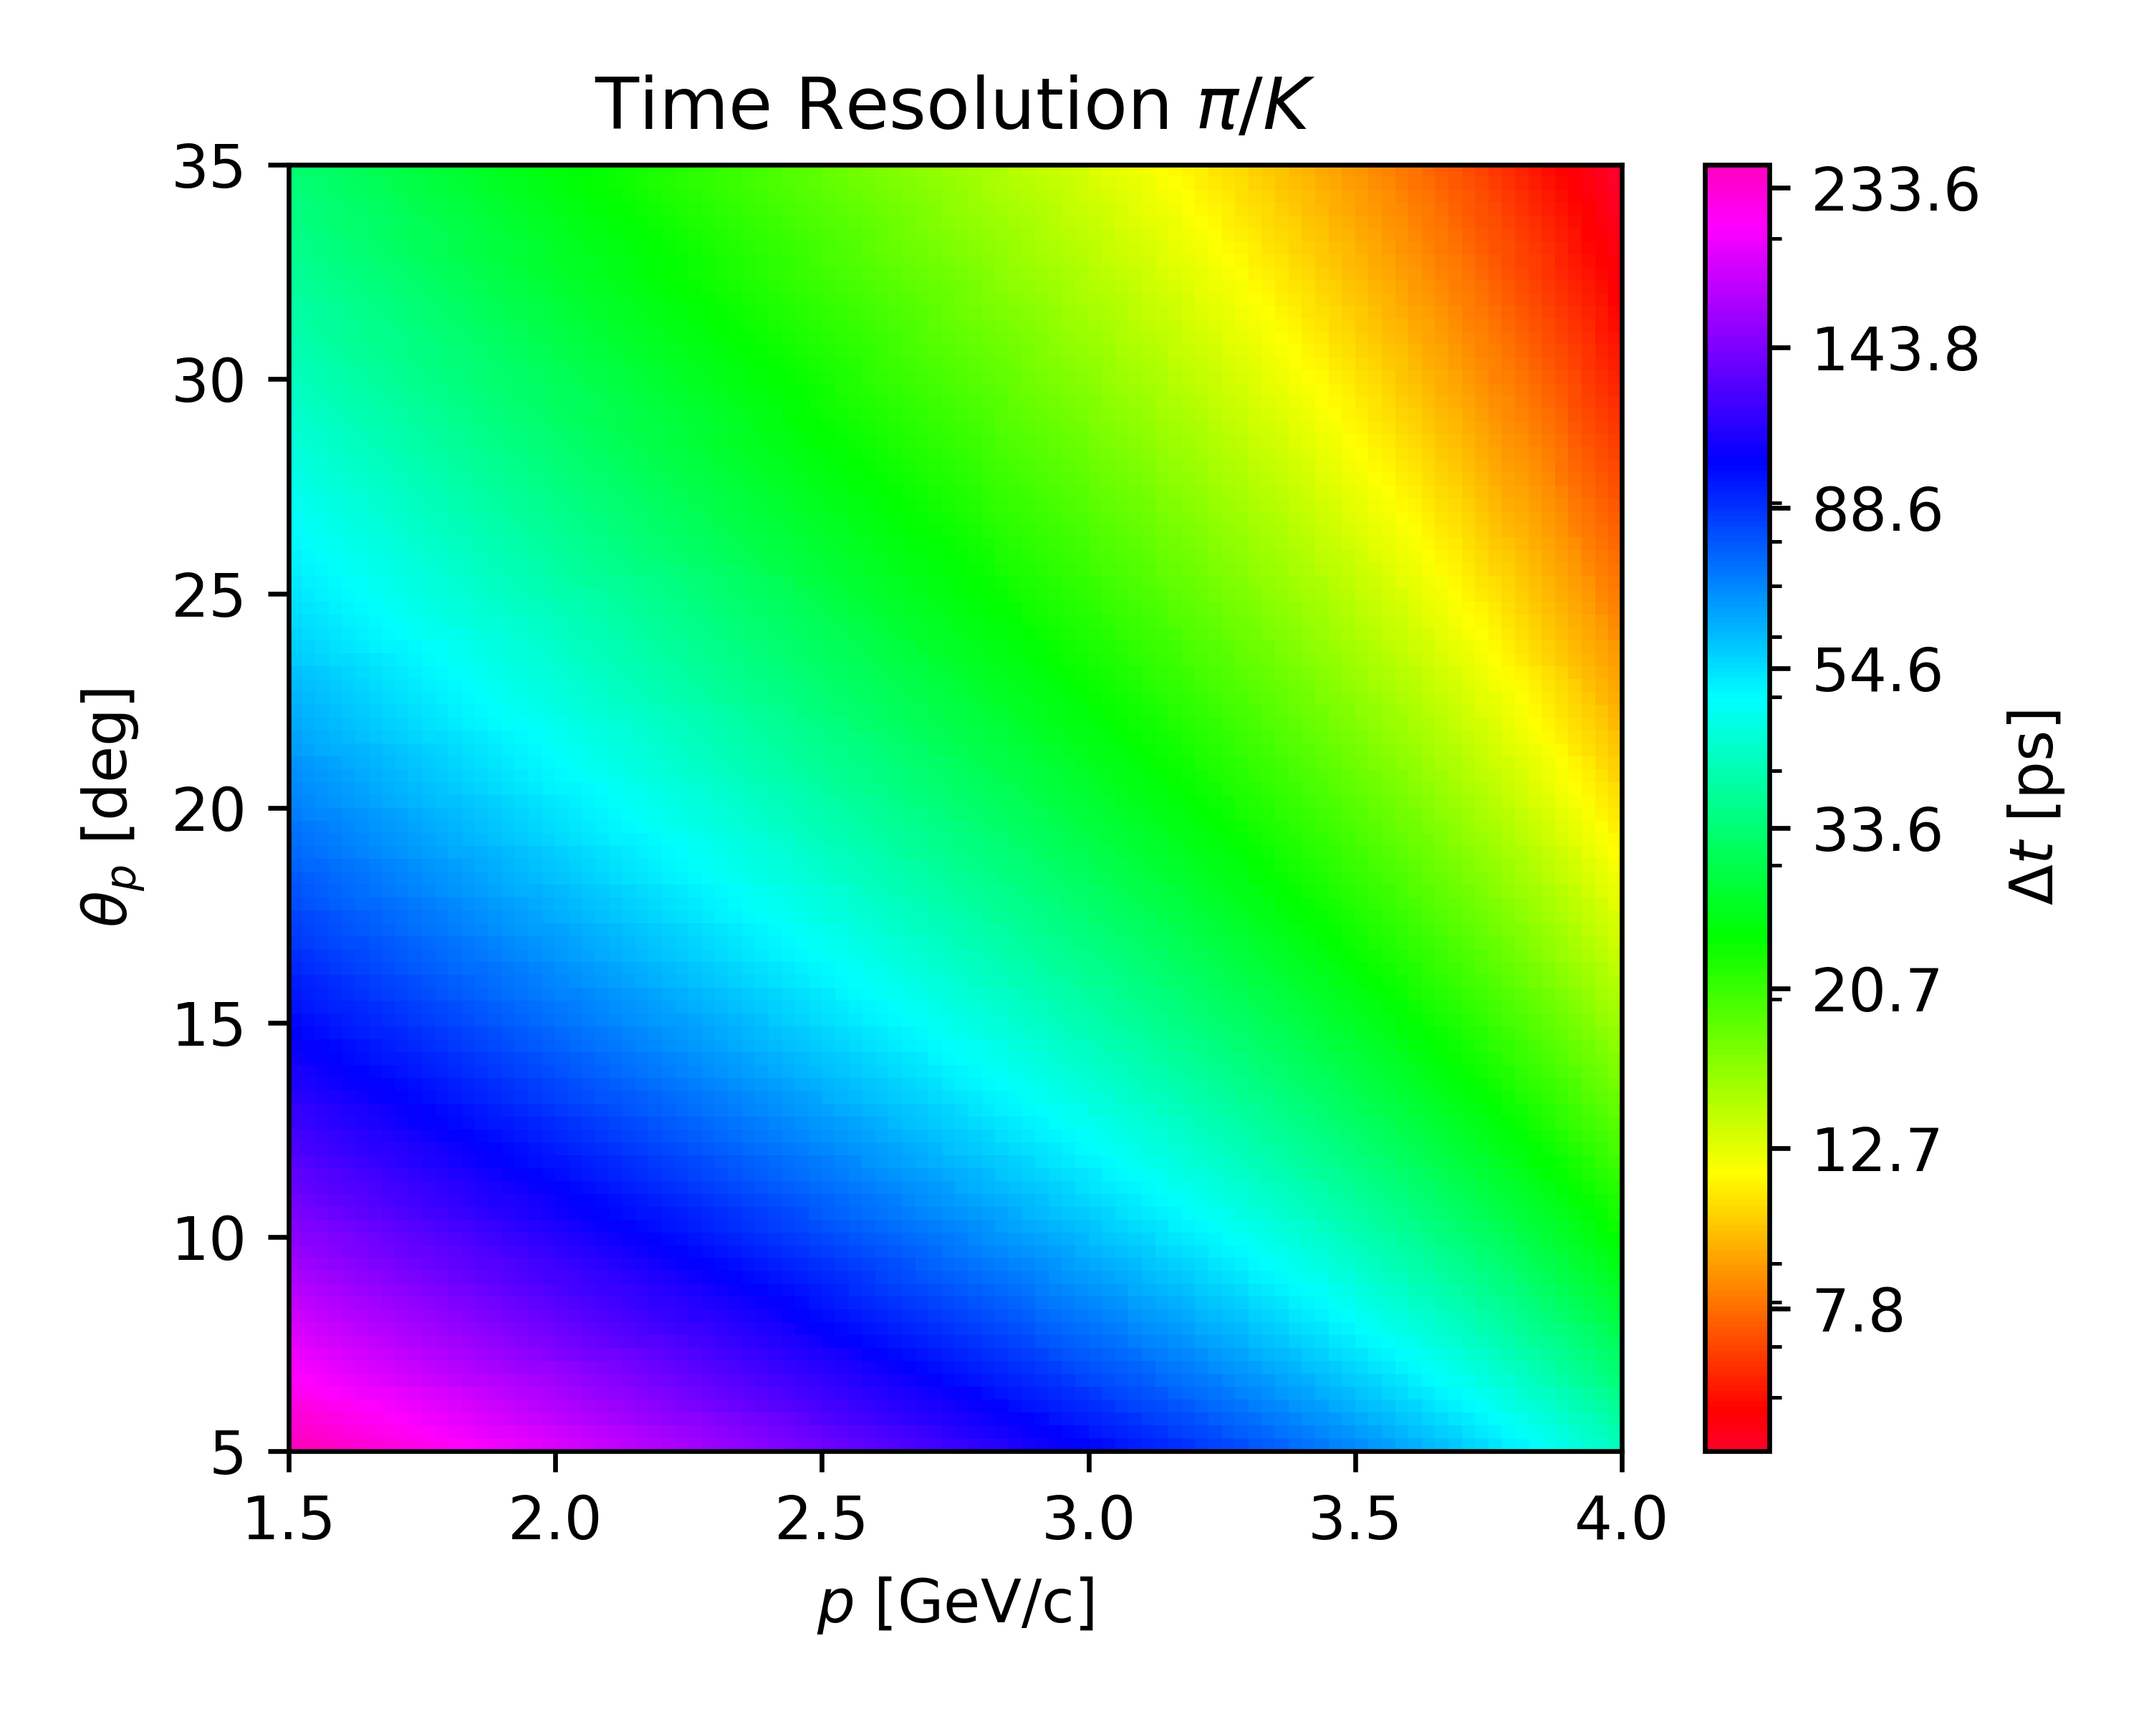
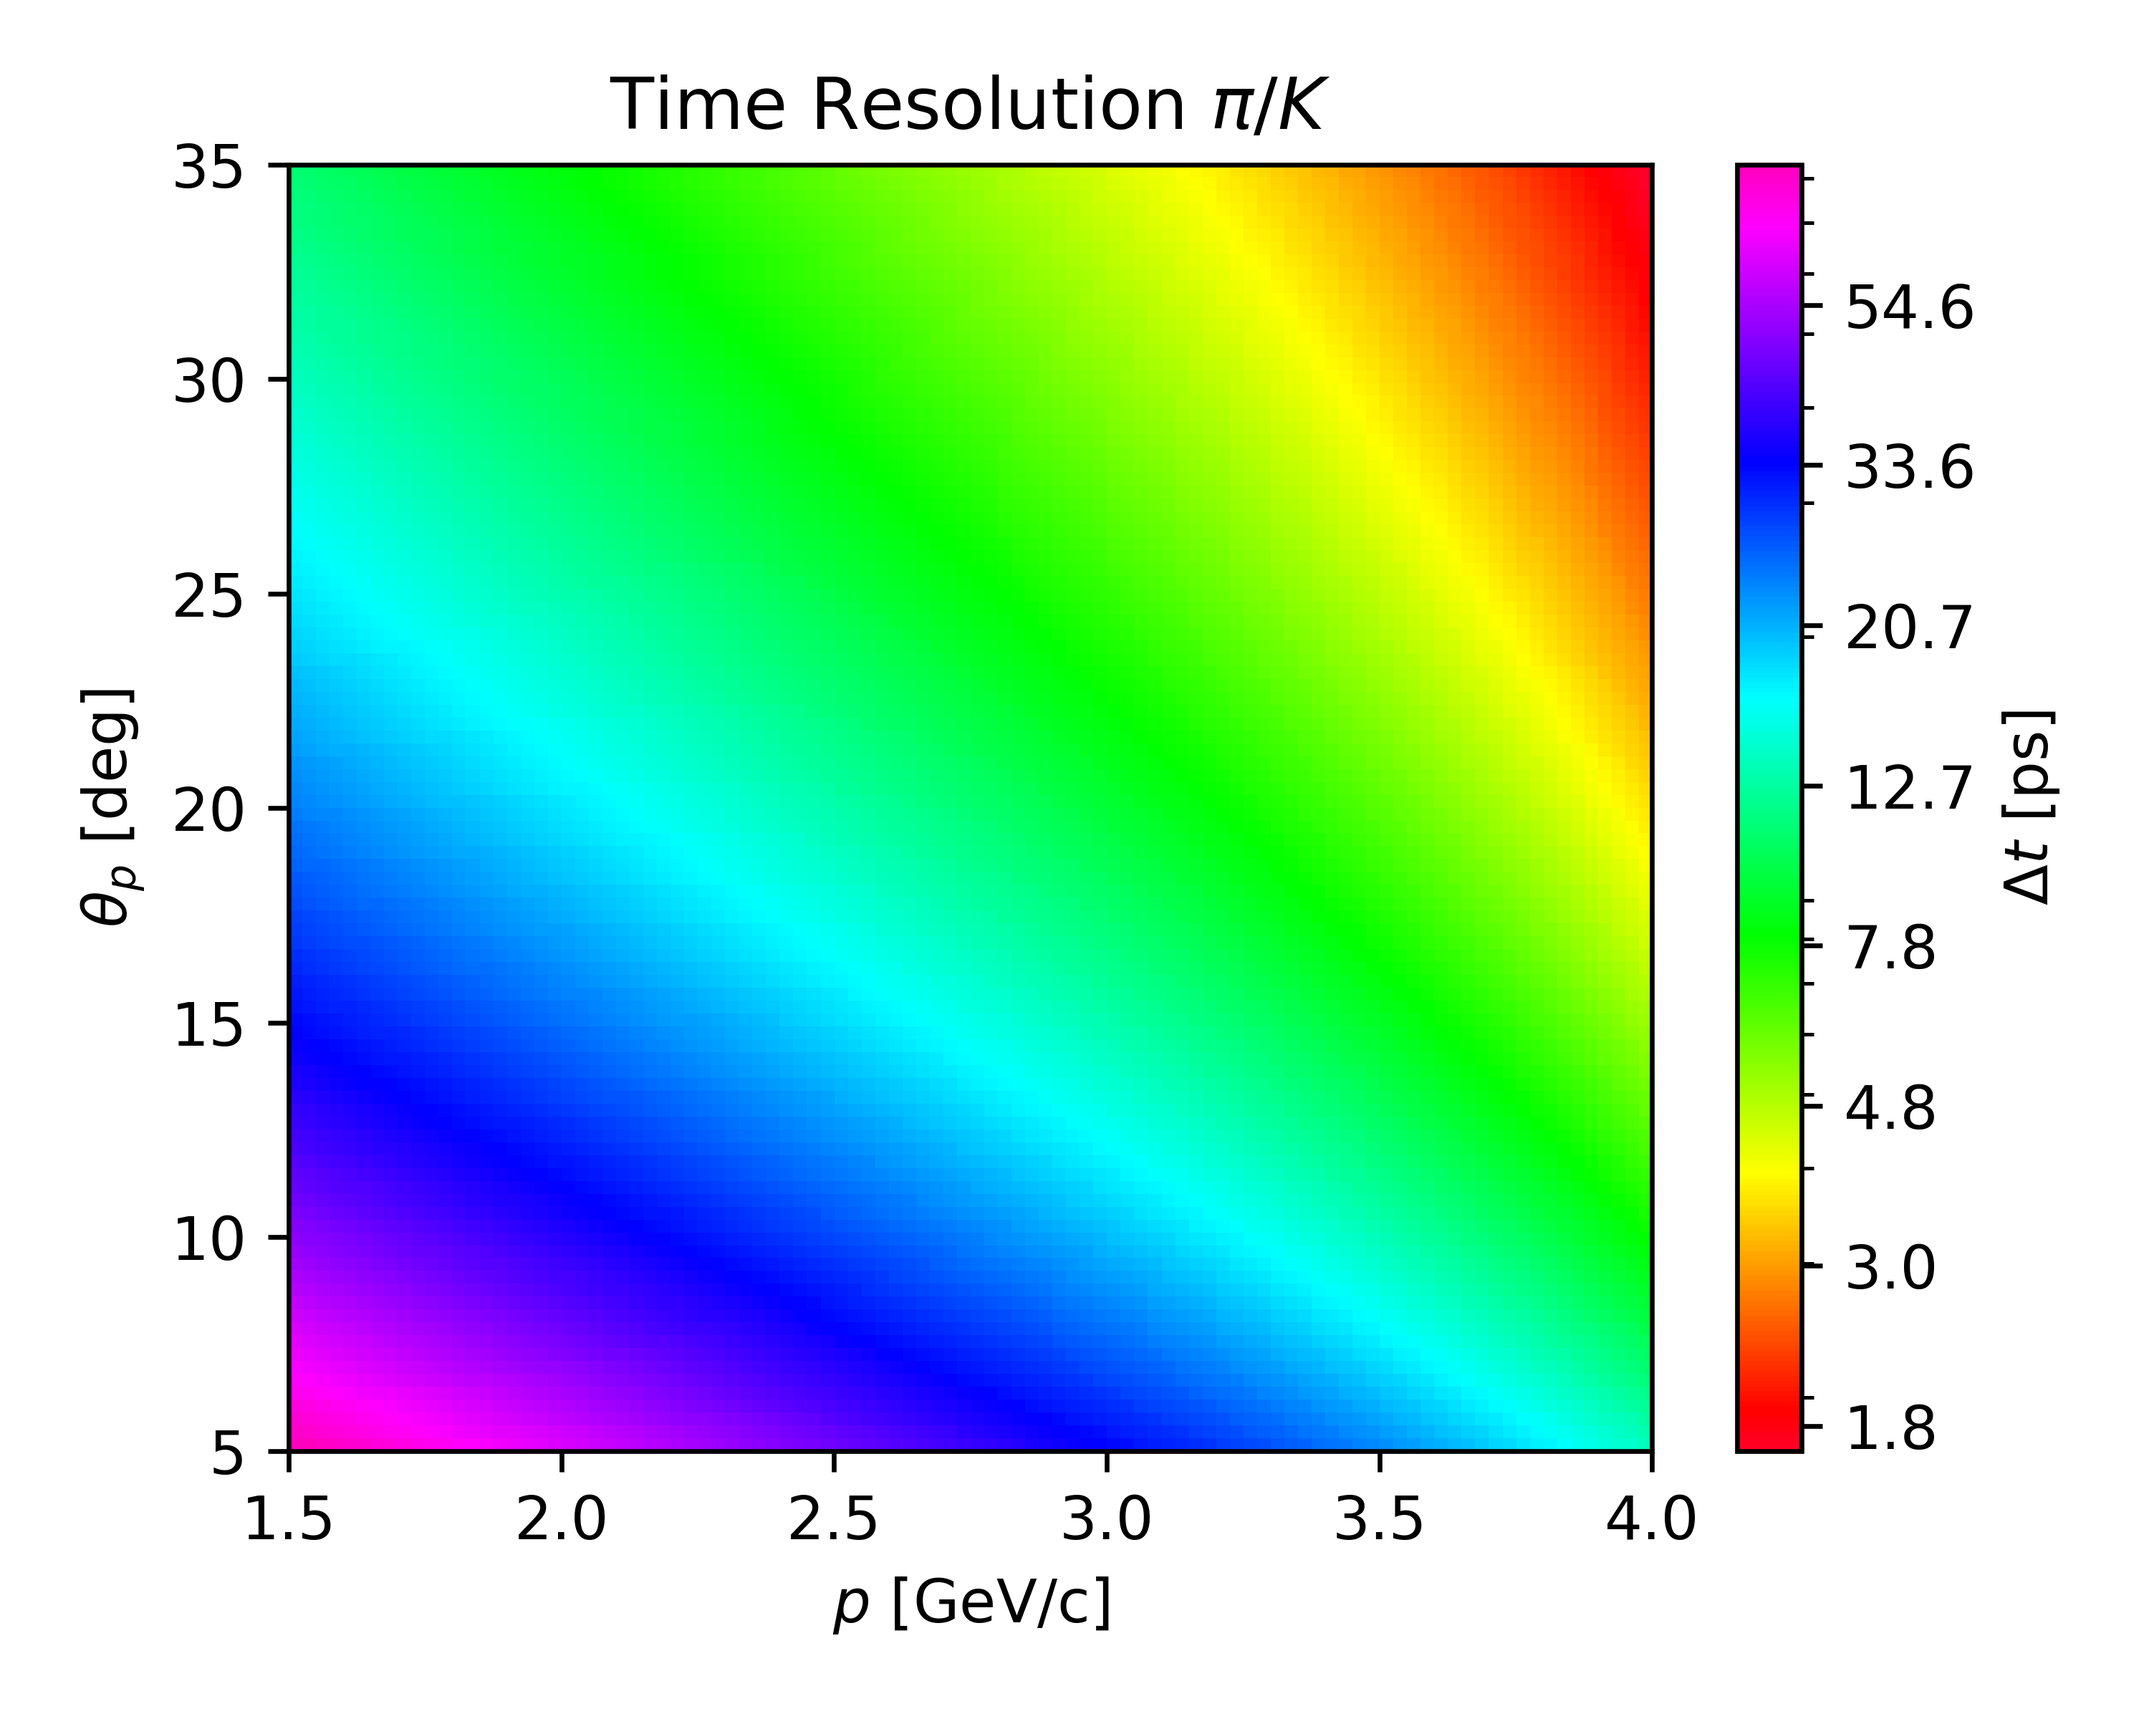
Adding separation power to time resolution

diff --git a/timeres.py b/timeres.py
@@ -16,6 +16,8 @@ steps = 100
 
 arr = np.zeros((steps, steps))
 
+n = 3.  # separation power
+
 for i in range(steps):
   for j in range(steps):
     p = pmin + i * 1.0 / 100 * (pmax - pmin)
@@ -24,7 +26,7 @@ for i in range(steps):
     top1 = f.top(m[0], p, f.R, 500, theta) * 1e12
     top2 = f.top(m[1], p, f.R, 500, theta) * 1e12
 
-    res = top2 - top1
+    res = 1 / n * (top2 - top1)
 
     arr[i, j] = res
 
@@ -67,7 +69,7 @@ for i in range(steps):
     top1 = f.top(m[1], p, f.R, 500, theta) * 1e12
     top2 = f.top(m[2], p, f.R, 500, theta) * 1e12
 
-    res = top2 - top1
+    res = 1 / n * (top2 - top1)
 
     arr[i, j] = res
 
@@ -75,13 +77,14 @@ for i in range(steps):
     print(f'Time Resolution: {res} ps')
 
 fig = plt.figure(figsize=(5, 4))
-plt.imshow(arr,
-           aspect='auto',
-           cmap='gist_rainbow',
-           interpolation='nearest',
-           norm=colors.LogNorm(),
-           origin='lower',
-           extent=[pmin, pmax, theta_min / math.pi * 180, theta_max / math.pi * 180])
+plt.imshow(
+    arr,
+    aspect='auto',
+    cmap='gist_rainbow',
+    interpolation='nearest',
+    norm=colors.LogNorm(),
+    origin='lower',
+    extent=[pmin, pmax, theta_min / math.pi * 180, theta_max / math.pi * 180])
 levels = np.logspace(-1, 3, 20)
 plt.colorbar(label='$\Delta t$ [ps]', ticks=levels, format='%.1f')
 plt.title('Time Resolution $\pi/K$')
